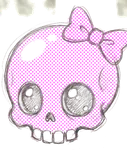
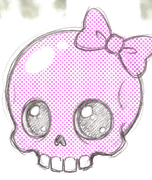
Photoshoots: new hero, animated title, sticker scatter, stamps as postage
HERO. His new full-body Bala drawing replaces bala-note. It came in as a photo
of a sketchbook page at RGB 195 paper with a shadow gradient, so: flat-fielded
against a blurred LUMINANCE field (per-channel dragged the hues and left the
art green), black point put back at the pencil, white point set at the PAPER
rather than above it -- the first pass used the 86th percentile, which sits
above paper and greyed the whole drawing to 22% white. Final ink density 43 vs
41 in the original, 80% pure white so multiply stays clean. 1040x1584, 267KB.

TITLE. The chrome gradient box is oversized to 260% and slides, so the specular
horizon travels through the letterforms instead of sitting still. The <3 beats
on the same 7s clock so the two do not fight.

STAMPS. The two outlined text boxes became four real stamps: scalloped edges
punched by paper-coloured circles on each side, a sticker as the engraving, the
fact as the denomination. Same information, and it finally uses the sticker art.

SCATTER. 22 stickers + 12 kaomoji, seeded so the layout is identical on every
rebuild, aria-hidden and pointer-events:none, painted under the content.
Anchored to the column centre, not the viewport, so they fill the dead margin
on a wide screen and ride the two edges on a phone. Opacity drops on narrow
screens where there is no margin to hide in. bolt/padlock/sparkle were left out
of the set: measured 0-6% alpha, they are white boxes not cutouts, and the
[…]

diff --git a/photoshoots/index.html b/photoshoots/index.html
@@ -9,12 +9,12 @@
      the path to anyone who reads that file. -->
 <meta name="robots" content="noindex, nofollow, noarchive">
 <title>Photoshoots · Giancarlo Ortiz</title>
-<link rel="preload" as="image" href="assets/bala-note.webp">
+<link rel="preload" as="image" href="assets/bala-cam.webp">
 <link href="https://fonts.googleapis.com/css2?family=Fraunces:ital,opsz,wght,SOFT,WONK@0,9..144,300..900,0..100,0..1;1,9..144,300..900,0..100,0..1&family=Lobster&family=Inter:wght@400;500;600;700&family=JetBrains+Mono:wght@400;500;700;800&display=swap" rel="stylesheet">
 <style>
 :root{--paper:#ffffff;--ink:#151310;--pink:#f85ad8;--dim:#6d6068;--line:#f0d8ec}
 *{margin:0;padding:0;box-sizing:border-box}
-body{background:var(--paper);color:var(--ink);font-family:Inter,-apple-system,sans-serif;
+body{position:relative;background:var(--paper);color:var(--ink);font-family:Inter,-apple-system,sans-serif;
      font-size:16px;line-height:1.6;-webkit-font-smoothing:antialiased;overflow-x:hidden}
 .wrap{max-width:560px;margin:0 auto;padding:0 22px;position:relative}
 
@@ -40,6 +40,8 @@ body{background:var(--paper);color:var(--ink);font-family:Inter,-apple-system,sa
 /* the card's voice, carried over */
 .disp{font-family:'Fraunces','Fraunces fallback',Georgia,serif;
       font-variation-settings:'SOFT' 100,'WONK' 1,'opsz' 144;font-weight:800;letter-spacing:-1.5px}
+.kh{color:var(--pink);font-weight:400;letter-spacing:0}
+.nmk{font-size:14px;vertical-align:.35em;margin-left:4px}
 .kao{white-space:nowrap;display:inline-block;font-family:-apple-system,"Hiragino Sans","Apple SD Gothic Neo","Apple Symbols",Menlo,sans-serif}
 .dots{background-image:radial-gradient(var(--pink) 2.1px,transparent 2.4px);background-size:8px 8px}
 
@@ -58,15 +60,43 @@ body{background:var(--paper);color:var(--ink);font-family:Inter,-apple-system,sa
    #f85ad8 74%, #ffd9f4 96%, #fff 100%);
   -webkit-background-clip:text;background-clip:text;color:transparent;
   -webkit-text-stroke:.024em var(--ink);
-  filter:drop-shadow(.045em .05em 0 rgba(21,19,16,.2))}
+  filter:drop-shadow(.045em .05em 0 rgba(21,19,16,.2));
+  /* Oversize the gradient box and slide it: the specular horizon then travels
+     through the letterforms instead of sitting still. This is the one thing a
+     chrome gradient actually wants to do, and it costs no extra paint. */
+  background-size:100% 260%;background-position:0 22%;
+  animation:sweep 7s ease-in-out infinite alternate}
+@keyframes sweep{from{background-position:0 8%}to{background-position:0 92%}}
+/* the heart beats, on the same slow clock so the two do not fight */
+h1 .hrt{animation:beat 7s ease-in-out infinite;transform-origin:50% 60%}
+@keyframes beat{
+  0%,58%,100%{transform:scale(1) rotate(0deg)}
+  63%{transform:scale(1.22) rotate(-6deg)}
+  68%{transform:scale(.97) rotate(2deg)}
+  73%{transform:scale(1.11) rotate(-3deg)}
+  80%{transform:scale(1) rotate(0deg)}}
 
-/* rubber-stamp overprints */
-.stamps{display:flex;flex-wrap:wrap;align-items:center;gap:9px;margin-top:14px}
-.rub{font-family:'JetBrains Mono',monospace;font-weight:800;
-     border:3px solid var(--pink);color:var(--pink);padding:6px 11px;
-     letter-spacing:2.2px;font-size:9.5px;border-radius:3px;white-space:nowrap;
-     transform:rotate(-1.5deg)}
-.rub.b{border-color:var(--ink);color:var(--ink);transform:rotate(1.5deg)}
+/* ---- the four facts as a strip of real postage ----
+   Was two outlined text boxes that read as generic labels and competed with the
+   title right above them. Now they are actual stamps: scalloped edges punched by
+   paper-coloured circles on each side, a sticker as the engraving, the fact as
+   the denomination. Same information, and it finally uses the sticker art. */
+.stamps{display:flex;flex-wrap:wrap;align-items:flex-start;gap:8px;margin-top:15px}
+.stamp{--sc:5px;position:relative;display:flex;flex-direction:column;align-items:center;
+  gap:3px;padding:9px 8px 8px;width:74px;text-align:center;
+  background:
+    radial-gradient(circle var(--sc) at 50% 0,   var(--paper) 96%,transparent 100%) top   /11px 9px repeat-x,
+    radial-gradient(circle var(--sc) at 50% 100%,var(--paper) 96%,transparent 100%) bottom/11px 9px repeat-x,
+    radial-gradient(circle var(--sc) at 0 50%,   var(--paper) 96%,transparent 100%) left  /9px 11px repeat-y,
+    radial-gradient(circle var(--sc) at 100% 50%,var(--paper) 96%,transparent 100%) right /9px 11px repeat-y,
+    #fdeafb;
+  transform:rotate(-2deg)}
+.stamp.b{transform:rotate(2.2deg);background-color:#fff3fc}
+.stamp:nth-child(3){transform:rotate(1.2deg)}
+.stamp:nth-child(4){transform:rotate(-1.4deg)}
+.stamp img{width:34px;height:34px;object-fit:contain;display:block}
+.stamp b{font-family:'JetBrains Mono',monospace;font-size:7.5px;font-weight:800;
+  letter-spacing:.9px;text-transform:uppercase;color:var(--ink);line-height:1.25}
 
 
 /* customs-declaration header on the form panel */
@@ -139,11 +169,13 @@ h1 .hrt{font-family:'Fraunces','Fraunces fallback',Georgia,serif;font-weight:800
    than the 560px wrap while the rest of the page stayed centred. */
 .hero{position:relative;margin:6px auto 0}
 .hero img{width:100%;height:auto;display:block;mix-blend-mode:multiply}
-.hero .glow{position:absolute;left:50%;top:6%;width:82%;padding-bottom:82%;
-  transform:translateX(-50%);z-index:-1;opacity:.4;
-  background-image:radial-gradient(var(--pink) 1.6px,transparent 1.9px);background-size:11px 11px;
-  -webkit-mask-image:radial-gradient(circle,#000 14%,transparent 64%);
-          mask-image:radial-gradient(circle,#000 14%,transparent 64%)}
+/* Was a pink halftone dot bloom, which worked behind the old flat drawing but
+   fights this one: the camera art already carries its own dense halftone, and a
+   second dot field at a different pitch just reads as mush. A plain soft wash
+   still lifts her off the white page without adding a competing texture. */
+.hero .glow{position:absolute;left:50%;top:4%;width:96%;padding-bottom:96%;
+  transform:translateX(-50%);z-index:-1;opacity:.38;
+  background:radial-gradient(circle,rgba(248,90,216,.24) 0%,rgba(248,90,216,.09) 38%,transparent 62%)}
 
 .intro{padding:14px 0 22px;font-size:19px;line-height:1.5}
 .intro b{color:var(--pink);font-weight:700}
@@ -236,10 +268,76 @@ footer a{color:var(--dim)}
 }
 @media(max-width:520px){
   .intro{font-size:17.5px}}
+
+/* ---- sticker scatter ----
+   Decorative only, aria-hidden, pointer-events:none, and painted UNDER the
+   content. Anchored to the column centre rather than the viewport, so on a wide
+   screen they fill the dead margin either side of the 560px column and on a
+   phone the same offsets carry them off the edges, where they peek instead of
+   sitting behind body copy. The form panel is opaque white, so anything landing
+   behind it is hidden for free. Rotation lives on the img and the float on the
+   span, because a transform in the keyframes would otherwise wipe the rotation. */
+.scatter{position:absolute;inset:0;overflow:hidden;pointer-events:none;z-index:0}
+.sk{position:absolute;top:var(--y);left:calc(50% + var(--x) * var(--xm,1));
+    width:calc(var(--s) * var(--sm,1));height:calc(var(--s) * var(--sm,1));
+    opacity:var(--o);animation:bob var(--d) ease-in-out var(--dl) infinite alternate}
+.sk.kf{width:auto;height:auto;font-size:var(--fs);line-height:1;color:var(--pink);
+  font-weight:700;white-space:nowrap;transform-origin:50% 50%}
+.sk.kf{rotate:var(--r)}
+.sk img{width:100%;height:100%;object-fit:contain;display:block;transform:rotate(var(--r))}
+@keyframes bob{from{transform:translateY(-7px)}to{transform:translateY(7px)}}
+/* Below the 560px column there is no margin left to hide in, so pull the offsets
+   in and shrink them: they then ride the two screen edges the whole way down,
+   half-cropped, instead of vanishing off-canvas entirely. */
+@media(max-width:620px){.sk{--xm:.62;--sm:.8;opacity:calc(var(--o) * .58)}}
+@media(max-width:400px){.sk{--xm:.58;--sm:.7;opacity:calc(var(--o) * .5)}}
+body>.wrap,body>header,body>footer,body>.airmail,body>.perf{position:relative;z-index:1}
+
+/* Motion is decoration here, so all of it goes away when the OS asks. */
+@media(prefers-reduced-motion:reduce){
+  .chrome,h1 .hrt,.sk{animation:none}
+  .chrome{background-position:0 22%}
+}
 </style>
 </head>
 <body>
 
+<div class="scatter" aria-hidden="true">
+  <span class="sk" style="--x:-305px;--y:3.57%;--s:55px;--o:0.78;--d:9.0s;--dl:2.4s"><img src="assets/pin.webp" alt="" loading="lazy" style="--r:-11.6deg"></span>
+  <span class="sk" style="--x:296px;--y:7.87%;--s:51px;--o:0.61;--d:10.3s;--dl:4.7s"><img src="assets/bat.webp" alt="" loading="lazy" style="--r:-12.5deg"></span>
+  <span class="sk" style="--x:-291px;--y:10.79%;--s:70px;--o:0.78;--d:7.2s;--dl:1.6s"><img src="assets/star.webp" alt="" loading="lazy" style="--r:3.3deg"></span>
+  <span class="sk" style="--x:296px;--y:15.27%;--s:42px;--o:0.53;--d:6.7s;--dl:3.1s"><img src="assets/heart.webp" alt="" loading="lazy" style="--r:-7.6deg"></span>
+  <span class="sk" style="--x:-244px;--y:21.05%;--s:58px;--o:0.75;--d:7.2s;--dl:5.6s"><img src="assets/skull.webp" alt="" loading="lazy" style="--r:10.3deg"></span>
+  <span class="sk" style="--x:272px;--y:25.49%;--s:43px;--o:0.65;--d:8.2s;--dl:1.1s"><img src="assets/bandaid.webp" alt="" loading="lazy" style="--r:13.7deg"></span>
+  <span class="sk" style="--x:-324px;--y:28.76%;--s:48px;--o:0.55;--d:9.1s;--dl:4.9s"><img src="assets/cross.webp" alt="" loading="lazy" style="--r:23.9deg"></span>
+  <span class="sk" style="--x:290px;--y:33.58%;--s:66px;--o:0.59;--d:5.9s;--dl:4.3s"><img src="assets/bow.webp" alt="" loading="lazy" style="--r:10.3deg"></span>
+  <span class="sk" style="--x:-280px;--y:39.24%;--s:73px;--o:0.59;--d:5.8s;--dl:4.7s"><img src="assets/lollipop.webp" alt="" loading="lazy" style="--r:17.4deg"></span>
+  <span class="sk" style="--x:271px;--y:43.43%;--s:47px;--o:0.63;--d:7.5s;--dl:4.3s"><img src="assets/camera.webp" alt="" loading="lazy" style="--r:24.7deg"></span>
+  <span class="sk" style="--x:-319px;--y:47.63%;--s:68px;--o:0.76;--d:6.0s;--dl:4.0s"><img src="assets/envelope.webp" alt="" loading="lazy" style="--r:19.4deg"></span>
+  <span class="sk" style="--x:314px;--y:51.09%;--s:57px;--o:0.61;--d:10.0s;--dl:4.1s"><img src="assets/bear.webp" alt="" loading="lazy" style="--r:11.0deg"></span>
+  <span class="sk" style="--x:-295px;--y:56.11%;--s:42px;--o:0.82;--d:8.9s;--dl:5.3s"><img src="assets/kandi.webp" alt="" loading="lazy" style="--r:-14.4deg"></span>
+  <span class="sk" style="--x:268px;--y:59.98%;--s:49px;--o:0.53;--d:10.3s;--dl:1.0s"><img src="assets/cherries.webp" alt="" loading="lazy" style="--r:-14.7deg"></span>
+  <span class="sk" style="--x:-307px;--y:65.46%;--s:48px;--o:0.62;--d:7.2s;--dl:1.5s"><img src="assets/envelope.webp" alt="" loading="lazy" style="--r:-18.3deg"></span>
+  <span class="sk" style="--x:252px;--y:68.56%;--s:55px;--o:0.72;--d:9.3s;--dl:4.3s"><img src="assets/star.webp" alt="" loading="lazy" style="--r:-17.2deg"></span>
+  <span class="sk" style="--x:-272px;--y:72.92%;--s:68px;--o:0.58;--d:6.4s;--dl:0.8s"><img src="assets/kandi.webp" alt="" loading="lazy" style="--r:-10.4deg"></span>
+  <span class="sk" style="--x:326px;--y:77.22%;--s:65px;--o:0.6;--d:6.3s;--dl:1.5s"><img src="assets/bandaid.webp" alt="" loading="lazy" style="--r:23.4deg"></span>
+  <span class="sk" style="--x:-342px;--y:84.24%;--s:57px;--o:0.56;--d:10.3s;--dl:4.9s"><img src="assets/heart.webp" alt="" loading="lazy" style="--r:9.8deg"></span>
+  <span class="sk" style="--x:286px;--y:88.94%;--s:41px;--o:0.59;--d:9.5s;--dl:2.2s"><img src="assets/cherries.webp" alt="" loading="lazy" style="--r:-24.1deg"></span>
+  <span class="sk" style="--x:-290px;--y:92.65%;--s:57px;--o:0.53;--d:7.4s;--dl:5.4s"><img src="assets/lollipop.webp" alt="" loading="lazy" style="--r:-2.0deg"></span>
+  <span class="sk" style="--x:323px;--y:96.36%;--s:50px;--o:0.56;--d:7.5s;--dl:5.9s"><img src="assets/camera.webp" alt="" loading="lazy" style="--r:23.6deg"></span>
+  <span class="sk kf kao" style="--x:322px;--y:4.47%;--o:0.72;--d:9.7s;--dl:1.8s;--fs:19px;--r:-11.6deg">⋆｡°✩</span>
+  <span class="sk kf kao" style="--x:-247px;--y:13.93%;--o:0.52;--d:7.0s;--dl:5.7s;--fs:21px;--r:-5.1deg">₊˚ﾟ</span>
+  <span class="sk kf kao" style="--x:234px;--y:21.65%;--o:0.53;--d:8.8s;--dl:2.2s;--fs:23px;--r:-9.7deg">✧･ﾟ</span>
+  <span class="sk kf kao" style="--x:-229px;--y:29.62%;--o:0.57;--d:7.2s;--dl:2.1s;--fs:25px;--r:0.4deg">♡</span>
+  <span class="sk kf kao" style="--x:242px;--y:35.22%;--o:0.66;--d:8.1s;--dl:3.3s;--fs:13px;--r:16.2deg">★</span>
+  <span class="sk kf kao" style="--x:-312px;--y:44.68%;--o:0.62;--d:7.4s;--dl:6.2s;--fs:15px;--r:4.9deg">⁺˚*</span>
+  <span class="sk kf kao" style="--x:280px;--y:51.4%;--o:0.72;--d:11.8s;--dl:0.5s;--fs:22px;--r:-2.8deg">(๑˃ᴗ˂)</span>
+  <span class="sk kf kao" style="--x:-267px;--y:63.09%;--o:0.49;--d:9.4s;--dl:3.7s;--fs:19px;--r:-1.7deg">｡:ﾟ･</span>
+  <span class="sk kf kao" style="--x:212px;--y:68.68%;--o:0.56;--d:7.4s;--dl:6.7s;--fs:23px;--r:1.9deg">♡⸜(˶˃ᵕ˂˶)⸝</span>
+  <span class="sk kf kao" style="--x:-284px;--y:76.89%;--o:0.55;--d:7.4s;--dl:1.0s;--fs:24px;--r:-1.2deg">٩(ˊᗜˋ)و</span>
+  <span class="sk kf kao" style="--x:320px;--y:85.45%;--o:0.53;--d:9.8s;--dl:2.7s;--fs:18px;--r:14.4deg">✦</span>
+  <span class="sk kf kao" style="--x:-258px;--y:92.22%;--o:0.6;--d:11.8s;--dl:1.0s;--fs:23px;--r:-12.1deg">˚₊·</span>
+</div>
 <div class="airmail"></div>
 <div class="perf dots"></div>
 
@@ -254,8 +352,10 @@ footer a{color:var(--dim)}
       <h1 class="disp"><span class="chrome">Photoshoots</span><span class="hrt">&lt;3</span></h1>
     </div>
     <div class="stamps">
-      <span class="rub">PHOTOGRAPHS &middot; DO NOT BEND</span>
-      <span class="rub b">NO SITTING FEE</span>
+      <span class="stamp"><img src="assets/camera.webp" alt="" loading="lazy"><b>No sitting fee</b></span>
+      <span class="stamp b"><img src="assets/star.webp" alt="" loading="lazy"><b>San Antonio</b></span>
+      <span class="stamp"><img src="assets/skull.webp" alt="" loading="lazy"><b>18 or older</b></span>
+      <span class="stamp b"><img src="assets/heart.webp" alt="" loading="lazy"><b>Do not bend</b></span>
     </div>
   </div>
 </header>
@@ -263,7 +363,7 @@ footer a{color:var(--dim)}
 
 <div class="wrap hero">
   <div class="glow"></div>
-  <img src="assets/bala-note.webp" alt="" width="760" height="1018">
+  <img src="assets/bala-cam.webp" alt="Bala, the Vamppsych scene-girl mascot, aiming a point-and-shoot camera at you like a pistol" width="1040" height="1584">
 </div>
 
 <div class="wrap">
@@ -280,7 +380,7 @@ footer a{color:var(--dim)}
     <script src="https://tally.so/widgets/embed.js"></script>
   </div>
 
-  <div class="orbar">or</div>
+  <div class="orbar">or <span class="kao kh">˚₊·</span></div>
 
   <div id="dm">
     <div class="decl"><span>SEND IT DIRECT</span><span><i>&#9679;</i> NO FORM</span></div>
@@ -293,7 +393,7 @@ footer a{color:var(--dim)}
   </div>
 
   <div class="below">
-    <h2>What this is</h2>
+    <h2>What this is <span class="kao kh">✧･ﾟ</span></h2>
     <p>I'm a filmmaker and I'm building a body of portrait work, so I need people to shoot.
     I light and grade these like film frames, not snapshots. You get a full color set and a
     moody black and white set back, usually within a couple of days.</p>
@@ -313,7 +413,7 @@ footer a{color:var(--dim)}
     </div>
 
     <div class="me">
-      <div class="nm">Giancarlo Ortiz</div>
+      <div class="nm">Giancarlo Ortiz <span class="kao kh nmk">(๑˃ᴗ˂)</span></div>
       Full Sail University, digital cinematography. Used to shoot photo and video for the
       San Antonio Current. <a href="https://www.tiktok.com/@vamp.psych" target="_blank" rel="noopener">@vamp.psych</a> on TikTok.<br>
       <a href="https://carlo72400-pixel.github.io/" target="_blank" rel="noopener">See the full portfolio →</a>
@@ -321,7 +421,7 @@ footer a{color:var(--dim)}
 
     <div class="brm">
       <div class="brm-bars" aria-hidden="true"></div>
-      <div class="brm-k">No postage necessary</div>
+      <div class="brm-k">No postage necessary <span class="kao kh">♡</span></div>
       <p>Sittings are free and they stay free. If you ever feel like throwing
       something in the jar after yours, it lives here. Nobody gets asked, and it
       changes nothing about your place in line.</p>
